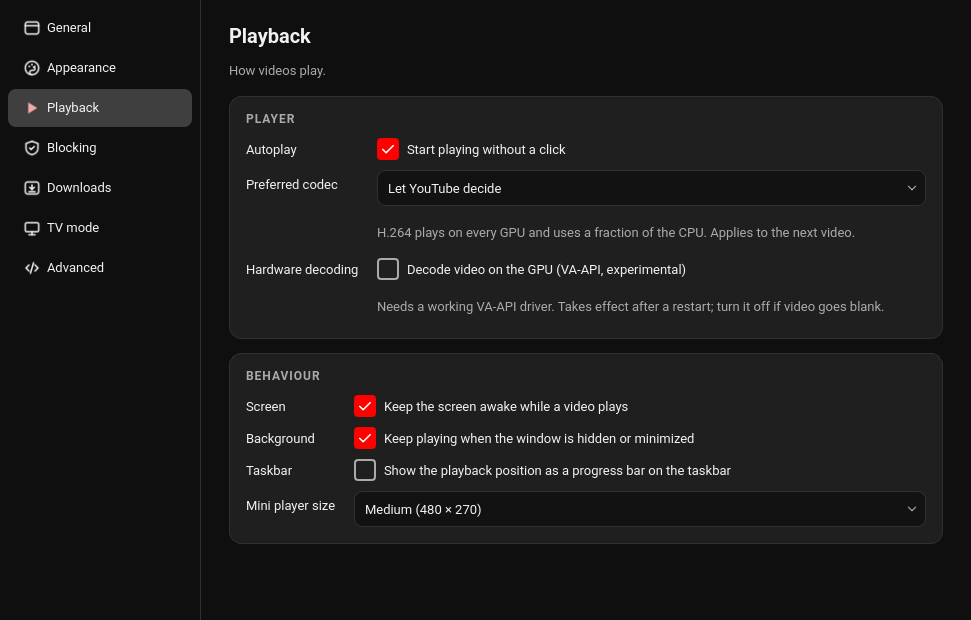
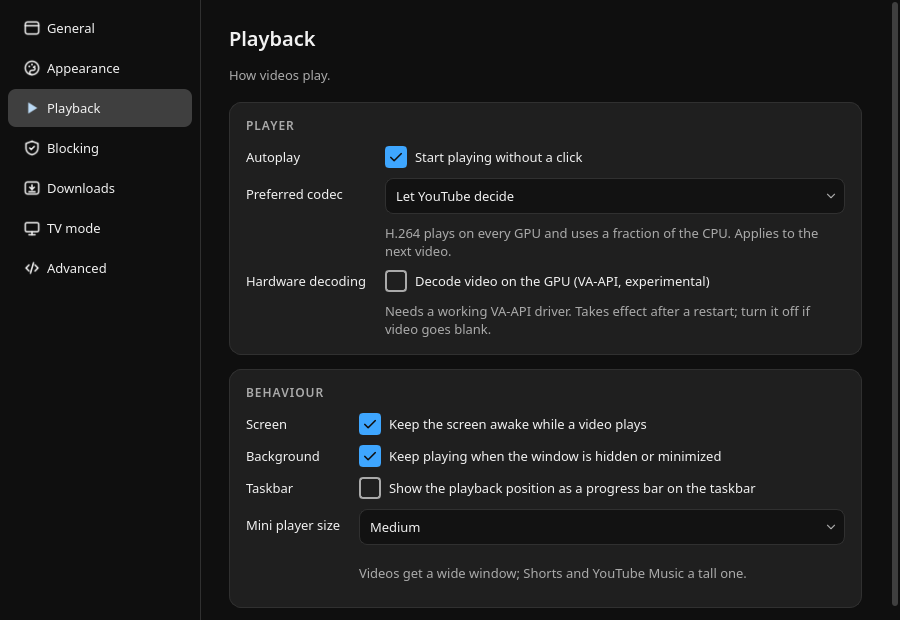
guide: 10.3.0 (mode switch, rail labels, welcome, mini player, keyboard, download cards)
The window section describes the mode switch, the rail's labels and the
More menu (F10), and F6. TV and Music mode explain switching from the rail
(Ctrl+1/2/3, Ctrl+T / Ctrl+M toggles), the Back to YouTube button, the
Music mini player and the Open Red in setting. Downloads cover the
floating panel, the Download added message, the card menu and keys.
Shortcuts table updated. Screenshots retaken in a signed-out test profile:
desktop, downloads, music, menu, shortcuts, tray, download dialog and the
settings pages, plus a new welcome image.

diff --git a/packaging/public/GUIDE.md b/packaging/public/GUIDE.md
@@ -2,8 +2,8 @@
 
 Red is a desktop app for YouTube on Linux. This page walks through the window, playback, TV
 mode, blocking, downloads and the settings, and ends with a troubleshooting section. You can
-open it from inside the app at any time: the **⋯** menu on the side rail → **Online guide**, or
-**About Red → Online guide**.
+open it from inside the app at any time: the **More** menu at the bottom of the side rail →
+**Online guide**, or **About Red → Online guide**.
 
 - [Install and first start](#install-and-first-start)
 - [The window](#the-window)
@@ -32,25 +32,49 @@ sudo snap install red-app
 flatpak install flathub com.ktechpit.red
 ```
 
-On the first start of each new version Red shows a short *What's new* sheet; press **Got it**
-or Esc to close it. The full history is in the [changelog](CHANGELOG.md).
+<img src="screenshots/guide/welcome.png" alt="Welcome to Red" width="631">
+
+The very first start shows a short welcome: the three ways to watch, downloading, the mini
+player and blocking, each with its shortcut. *Get started* closes it; **More → Show me around**
+opens it again any time.
+
+After an update, the first start shows a short *What's new* sheet instead; press **Got it** or
+Esc to close it. The full history is in the [changelog](CHANGELOG.md).
 
 ## The window
 
 ![Red in desktop mode](screenshots/guide/desktop.png)
 
-Red shows the YouTube site with a slim rail on the left. From top to bottom the rail has the
-Red logo (**Home**), **Back**, **Forward** and **Reload**, then **Download this** (the current video, playlist or
-channel), **Downloads** (opens the queue beside the page), **Mini player**, **TV mode**,
-**Music mode**, and at
-the bottom **Settings** and the **⋯** menu.
+Red shows the YouTube site with a rail on the left. From top to bottom the rail has:
 
-<img src="screenshots/guide/menu.png" alt="The ⋯ menu" width="283">
+- **Home** (the Red logo).
+- The **mode switch**: **YouTube**, **YouTube Music** and **TV mode**. The mode you are in is
+  lit; click another to switch (Ctrl+1, Ctrl+2, Ctrl+3). See [TV mode](#tv-mode) and
+  [Music mode](#music-mode).
+- **Back**, **Forward** and **Reload**.
+- **Download this** when the page is a video, playlist or channel (its icon turns red), or
+  **Download from link** anywhere else.
+- **Downloads**, the queue beside the page, with a count of what is running.
+- **Mini player**, which says *Play a video first* until something plays.
+- At the bottom: **Settings**, **More** and **Hide labels**.
 
-The ⋯ menu holds everything that is not on the rail: download from a pasted link, copy the
-current video link, full screen, zoom, the keyboard shortcuts sheet, this guide, the log folder
-and *About Red*. Every rail button has a shortcut (press **F1** for the list), and the rail can
-be hidden in *Settings → General* if you prefer shortcuts alone.
+The rail shows a label next to each icon. **Hide labels** turns it into a narrow strip of icons
+(hover one for its name and shortcut), and **Show labels** in the same place brings the labels
+back. The same switch is in *Settings → General*. In a short window the rail scrolls with the
+mouse wheel.
+
+<img src="screenshots/guide/menu.png" alt="The More menu" width="295">
+
+The **More** menu (or **F10**) holds everything that is not on the rail: download from a pasted
+link, copy the current video link, full screen, zoom, the keyboard shortcuts sheet, *Show me
+around*, this guide, the log folder and *About Red*. Every rail button has a shortcut (press
+**F1** for the list), and the rail can be hidden in *Settings → General* if you prefer shortcuts
+alone; F10 still opens the menu then.
+
+**Keyboard**: **F6** moves the keyboard between the page, the rail and the Downloads panel
+(Shift+F6 goes back). On the rail the arrow keys move, Enter or Space presses a button and Esc
+returns to the page. A dashed ring shows where the keyboard is. Clicking a rail button leaves
+the keyboard on the page, so YouTube's own keys keep working.
 
 ## Watching
 
@@ -65,16 +89,20 @@ dialogs.
 smartwatch, a Bluetooth headset) play, pause and skip. Red also appears as a player in the
 desktop's media widget (MPRIS).
 
-<img src="screenshots/guide/tray.png" alt="Tray menu" width="244">
+<img src="screenshots/guide/tray.png" alt="Tray menu" width="260">
 
 **Tray icon**: shows what is playing, with play / pause, previous and next. Closing the window
 can either quit Red or leave it in the tray, still playing (*Settings → General → When closing
 the window*). On GNOME the tray needs the *AppIndicator and KStatusNotifierItem Support*
 extension.
 
-**Mini player** (Ctrl+Shift+M, or the rail button) pops the current video into a small
-always-on-top window while you work. It is available while a video plays; close it to return
-to the main window. Its size is in *Settings → Playback*.
+**Mini player** (Ctrl+Shift+M, or the rail button) shrinks Red into a small always-on-top
+window with just the video while you work. It is available while something plays. A video gets
+a wide window, a Short a tall one that fits it, and YouTube Music its own phone-style player
+(see [Music mode](#music-mode)). To get the full window back press **Esc**, the round button in
+the corner (it appears when you move the mouse), the window's close button, or Ctrl+Shift+M
+again. Closing the mini player never quits Red. *Settings → Playback* sets its size: small,
+medium or large.
 
 **Screen** stays awake while a video plays, and playback keeps going while the window is hidden
 or minimised. Both are switches in *Settings → Playback*.
@@ -87,15 +115,19 @@ with a working driver; see [Troubleshooting](#troubleshooting) if video turns bl
 
 ![TV mode](screenshots/guide/tv.png)
 
-**Ctrl+T** (or the rail button) switches to YouTube's living-room interface, the one on smart
-TVs and consoles, full screen by default. The video you were watching carries over, and so does
-your sign-in. Ctrl+T switches back.
+**TV mode** on the rail's mode switch (or **Ctrl+3**) switches to YouTube's living-room
+interface, the one on smart TVs and consoles, full screen by default. The video you were
+watching carries over, and so does your sign-in.
+
+To leave, press **Ctrl+T**, or move the mouse and click **Back to YouTube** in the top left
+corner. The button also shows for a few seconds when TV mode starts. Ctrl+T works both ways:
+from YouTube it opens TV mode, in TV mode it goes back.
 
 | Keys | Action |
 |---|---|
 | Arrows, Enter | Navigate, select |
 | Esc, Backspace, right click | Back |
-| Ctrl+T | Back to desktop mode |
+| Ctrl+T, or the Back to YouTube button | Back to YouTube |
 | Ctrl+D | Download the current video |
 | + / −, M | Volume, mute |
 | A / D, S | Playback speed down / up, reset |
@@ -104,18 +136,19 @@ your sign-in. Ctrl+T switches back.
 A **gamepad** works as on a console: the left stick or D-pad moves, **A** selects, **B** goes
 back, **LT / RT** seek. Plug it in before or after starting Red; nothing needs pairing.
 
-*Settings → TV mode* can start Red in TV mode, keep it windowed, hide Shorts, allow resolutions
-above the screen size and use the lighter low-memory interface.
+*Settings → TV mode* can keep it windowed, hide Shorts, allow resolutions above the screen size
+and use the lighter low-memory interface. To open Red in TV mode, set *Settings → General →
+Open Red in* to *TV mode*.
 
 ## Music mode
 
 ![Music mode](screenshots/guide/music.png)
 
-**Ctrl+M** (or the rail button) switches the window to YouTube Music. Your sign-in carries
-over, and so does the video you were watching, as its track. Music keeps playing while you
-browse your library, playlists and search results, and the tray, media keys and the desktop's
-media controls follow along with the album name and cover. Ctrl+M switches back; Ctrl+T goes
-straight to TV mode.
+**YouTube Music** on the rail's mode switch (or **Ctrl+2**) switches the window to YouTube
+Music. Your sign-in carries over, and so does the video you were watching, as its track. Music
+keeps playing while you browse your library, playlists and search results, and the tray, media
+keys and the desktop's media controls follow along with the album name and cover. **YouTube** on
+the mode switch (Ctrl+1, or Ctrl+M) goes back.
 
 What changes in Music mode:
 
@@ -124,10 +157,13 @@ What changes in Music mode:
   bar) opens the same dialog instead of a Premium offer.
   Playlist pages download as a whole. Choosing *Video* here does not change the default the
   other modes use.
-- The mini player is off (YouTube Music has its own player bar), and the screen is allowed to
-  sleep while music plays.
+- The **mini player** turns the window into a tall, phone-style YouTube Music player: the art or
+  video, the title, the seek bar, the controls and the Up next queue. It opens YouTube Music's
+  player page for you and puts it back when you leave.
+- The screen is allowed to sleep while music plays.
 - Links to YouTube Music from the desktop site open here instead of in a separate window, and
-  `red --music` starts Red in this mode. The mode is remembered across launches like TV mode.
+  `red --music` starts Red in this mode. To open Red here every time, set *Settings → General →
+  Open Red in* to *YouTube Music*.
 
 ## Blocking
 
@@ -153,7 +189,7 @@ itself. Nothing needs installing first.
 
 **Starting a download**
 
-- On a video, playlist or channel page press **Ctrl+D** or the rail's download button.
+- On a video, playlist or channel page press **Ctrl+D** or the rail's **Download this**.
 - Paste a link: **Ctrl+N** (or the panel's *Paste a link…*). A link already on the clipboard
   is filled in.
 - From a terminal: `red --download <link>`. Red is single-instance, so this hands the link to
@@ -193,11 +229,21 @@ entry range, so a channel with a thousand videos is not fetched by accident. You
 
 ![Downloads panel](screenshots/guide/downloads.png)
 
-**Ctrl+J** shows the panel beside the page. Each entry has pause, resume, retry and remove;
-finished entries offer *Show in folder* and *Open*. The panel's ⋯ menu pauses or resumes
-everything, clears finished entries, opens the download folder and the engine sheet. A desktop
-notification with *Show in folder* appears when a download finishes (switch in *Settings →
-General*). The queue survives a restart; unfinished downloads can be resumed or retried.
+**Ctrl+J** shows the panel beside the page; in a window narrower than about 900 pixels it opens
+over the page instead, and Esc closes it. When you queue a download where the panel cannot show
+(full screen, the mini player, TV mode, a narrow window), a short *Download added* message
+appears instead, and *Already in your downloads* if the same download is already queued.
+
+Hovering an entry shows its buttons. **Right-click** an entry (or press the Menu key) for every
+action it offers: *Open*, *Show in folder*, *Pause*, *Resume*, *Retry*, *Cancel*, *Copy link*,
+*Copy error* and *Remove from list*. From the keyboard, **Enter** opens a finished file, retries
+a failed download or resumes a paused one, **Delete** removes a finished entry and **Space**
+pauses or resumes. A failed download shows its whole reason on the entry.
+
+The panel's ⋯ menu pauses or resumes everything, clears finished entries, opens the download
+folder and the engine sheet. A desktop notification with *Show in folder* appears when a
+download finishes (switch in *Settings → General*). The queue survives a restart; unfinished
+downloads can be resumed or retried.
 
 **Age-restricted and rate-limited videos**: Red reuses your YouTube sign-in for downloads
 (*Settings → Downloads → Use my YouTube sign-in for downloads*, on by default). If a download
@@ -227,8 +273,9 @@ Press **Ctrl+,** or the rail's gear.
   </tr>
 </table>
 
-- **General**: start page (Home, Subscriptions, or where you left off), what closing the
-  window does, tray icon, side rail, download notifications.
+- **General**: the mode Red opens in (YouTube by default, YouTube Music, TV mode, or the mode
+  you used last), the YouTube start page (Home, Subscriptions, or where you left off), what
+  closing the window does, tray icon, side rail and its labels, download notifications.
 - **Appearance**: theme, page zoom, interface scale.
 - **Playback**: autoplay, preferred codec, hardware decoding, screen and background playback,
   a playback progress bar behind Red's taskbar entry (off by default; Plasma and Unity-style
@@ -236,11 +283,11 @@ Press **Ctrl+,** or the rail's gear.
 - **Blocking**: see [Blocking](#blocking).
 - **Downloads**: see [Downloads](#downloads).
 - **TV mode**: see [TV mode](#tv-mode).
-- **Music mode** has no settings page; see [Music mode](#music-mode).
+- **YouTube Music** has no settings page of its own; see [Music mode](#music-mode).
 - **Advanced**: hardware acceleration, the identity used on Google's sign-in pages, a custom
   user agent, clear cache, sign out and clear the session, reset site permissions (microphone,
   camera, location), the log folder, diagnostics, and *Reset all settings* (keeps your sign-in
-  and downloads).
+  and downloads). Each of these confirms under its button when it is done.
 
 ## Keyboard shortcuts
 
@@ -257,13 +304,17 @@ Press **Ctrl+,** or the rail's gear.
 | Ctrl+D | Download this video / playlist / channel |
 | Ctrl+N | Download from a pasted link |
 | Ctrl+J | Downloads panel |
-| Ctrl+Shift+M | Mini player |
-| Ctrl+T | TV mode |
-| Ctrl+M | Music mode |
+| Ctrl+Shift+M | Mini player (Esc returns) |
+| Ctrl+1 / Ctrl+2 / Ctrl+3 | YouTube / YouTube Music / TV mode |
+| Ctrl+T | TV mode on / off |
+| Ctrl+M | YouTube Music on / off |
+| F6 / Shift+F6 | Move the keyboard between the page, the rail and the Downloads panel |
+| F10 | The More menu |
 | F11 | Full screen |
 | Ctrl++ / Ctrl+- / Ctrl+0 | Zoom in / out / reset |
 | Ctrl+W | Hide the window (to the tray) |
 | Ctrl+, | Settings |
+| F1 | This list |
 | Ctrl+Q | Quit |
 | Play/Pause, Next, Previous media keys | Playback |
 
@@ -294,9 +345,10 @@ take effect after a restart. Red does this by itself when the GPU keeps crashing
 Advanced → Sign-in identity* on its default (Firefox on Google's pages). If a sign-in attempt
 still loops, use *Sign out and clear session…* on the same page and sign in again.
 
-**A download fails.** Open the Downloads panel, press *Retry* first. If it fails again open
-the engine sheet (panel ⋯ → *Download engine…*) and *Check for updates*; YouTube changes often
-and the engine follows within a day. A message about age restriction or rate limits means the
+**A download fails.** Open the Downloads panel; the failed entry shows the reason. Press *Retry*
+first. If it fails again open the engine sheet (panel ⋯ → *Download engine…*) and *Check for
+updates*; YouTube changes often and the engine follows within a day. To report it, right-click
+the entry and choose *Copy error*. A message about age restriction or rate limits means the
 download needs your sign-in; see [Downloads](#downloads).
 
 **No tray icon.** GNOME hides tray icons unless the *AppIndicator and KStatusNotifierItem
@@ -310,7 +362,7 @@ desktop (`-gtk`, `-kde`, `-gnome`) are installed.
 the *Sound* or *Media* keys also need to be bound in the keyboard settings.
 
 **Something else.** *About Red → Copy* puts the diagnostics (versions, GPU, engine state) on
-the clipboard, and *Open log folder* in the ⋯ menu shows the log. Attach both to an
+the clipboard, and *Open log folder* in the More menu shows the log. Attach both to an
 [issue](https://github.com/keshavbhatt/red/issues) or email them to
 [connect@ktechpit.com](mailto:connect@ktechpit.com).
 
